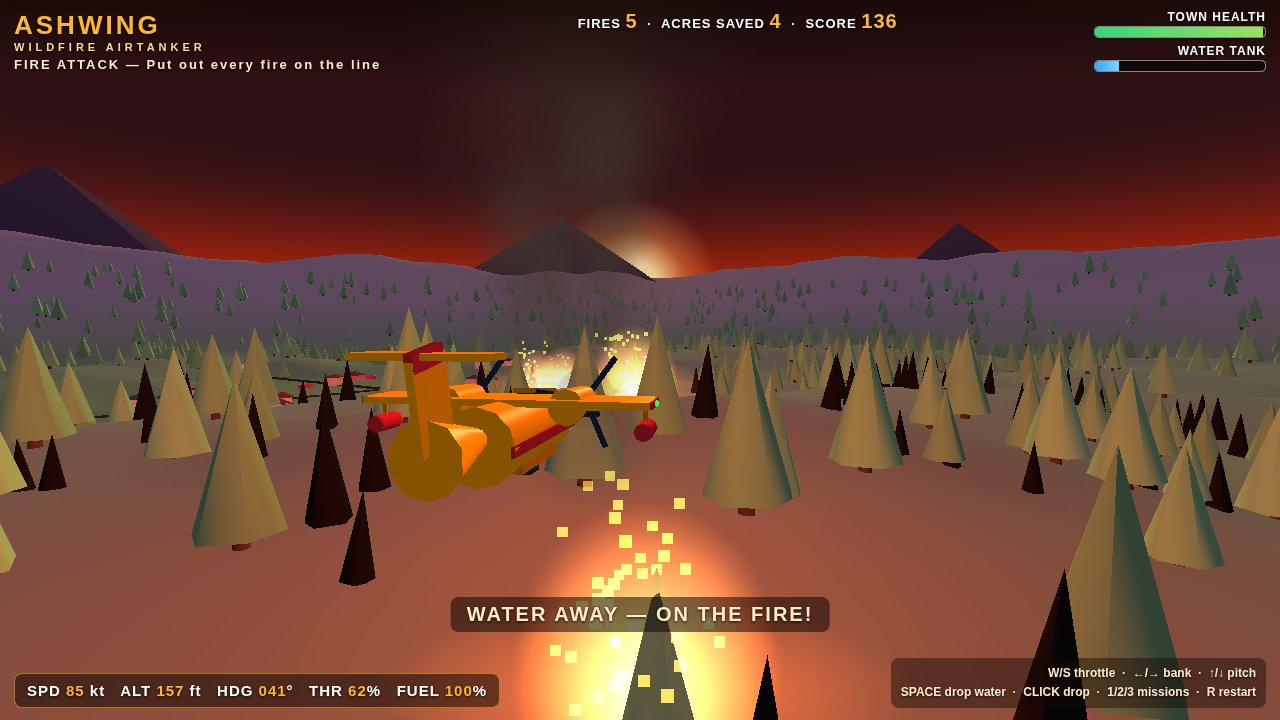
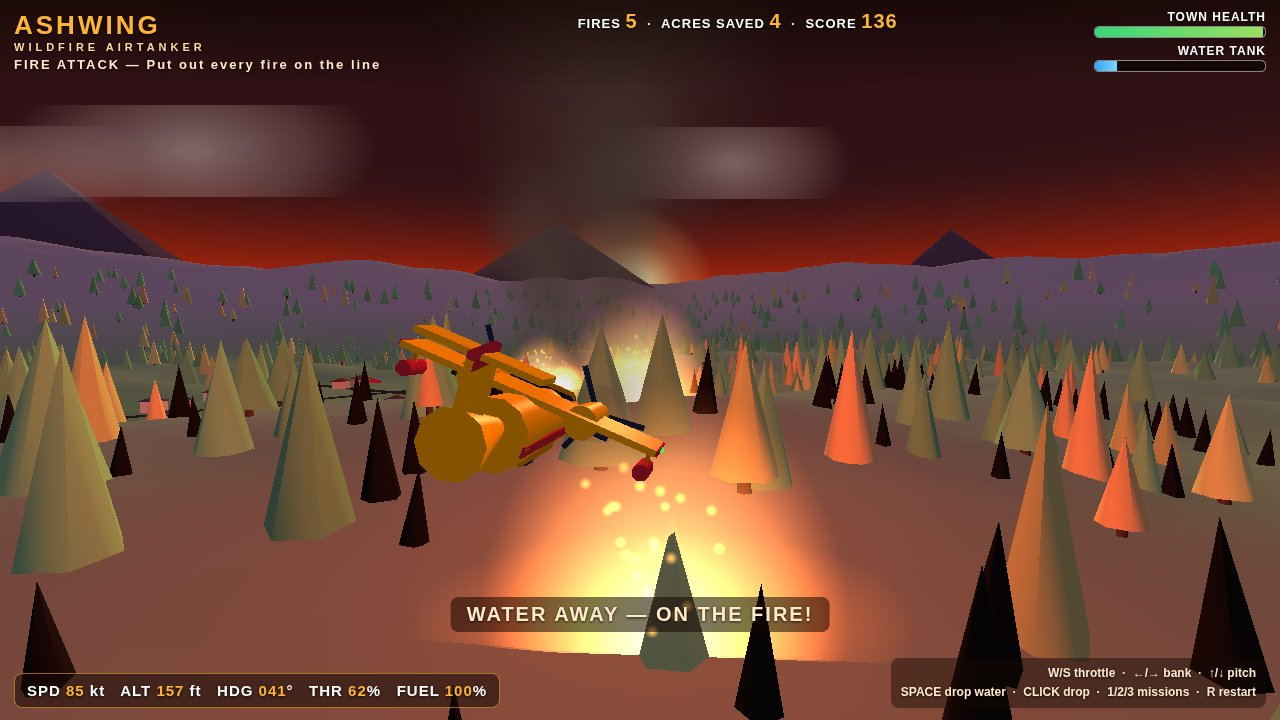
Flight v8 polish: re-stage all 4 shots (front 3/4 cover, shoreline scoop, banking drop, visible end plane); dusk clouds; varied trees; bigger bursts; soft round burst/ember particles

diff --git a/game/src/main.js b/game/src/main.js
@@ -26,9 +26,11 @@
 
   // --- world ---
   scene.add(T.buildSkyDome());
+  scene.add(T.buildClouds());
   scene.add(T.buildSunDisc());
   scene.add(T.buildTerrainMesh());
   scene.add(T.buildLakeMesh());
+  scene.add(T.buildShore());
   scene.add(T.buildGlintMesh());
   scene.add(T.buildRidgeRing(rng));
   var lights = T.buildLights();
@@ -83,16 +85,27 @@
   var autopilot = false;
   var autoPhase = 'scoop';
 
+  // per-shot field of view: the scoop run gets a tighter lens so the
+  // plane and the shoreline read bigger and the lake stays a band.
+  camera.fov = SHOT === 'river' ? 55 : 62;
+  camera.updateProjectionMatrix();
+
   function stageShot() {
     if (SHOT === 'cover') {
+      // Straight southwest run over the fire line toward Cedar Falls —
+      // no autopilot, so the plane holds its line for the title frame.
       missions.setupMission(1);
-      physics.reset(-140, -300, 75, 0.46, 60);
-      physics.auto = { x: 120, z: 220, alt: 80 };
+      physics.reset(430, 330, 75, -2.23, 60);
+      physics.throttle = 0.55;
       shotTarget = 6;
       hud.showTitle(true);
     } else if (SHOT === 'river') {
+      // Scoop run tight against the eastern shore, angled southeast so
+      // the fire line's smoke and Cedar Falls sit in the background.
+      // The plane leaves the lake ~0.7 s before capture; the tank is
+      // still filling, spray is still flying and SCOOPING… still shows.
       missions.setupMission(1);
-      physics.reset(-820, -260, 6, Math.PI * 0.5, 0);
+      physics.reset(-250, -260, 6, Math.PI * 0.5 - 0.5, 0);
       physics.throttle = 0.6;
       shotTarget = 1.0; // settle mid-scoop, spray still flying
       flying = true; hud.showTitle(false);
@@ -106,12 +119,14 @@
     } else if (SHOT === 'landing') {
       // Staged end screen: a short real mission the autopilot genuinely
       // flies and wins — 3 low-intensity fires (they do not spread),
-      // full tank, plane already inbound. Stats on screen are the sim's.
+      // full tank, plane already inbound. The fires sit on the town's
+      // edge so Cedar Falls (houses, water tower, fire trucks) is the
+      // backdrop behind the parked plane. Stats on screen are the sim's.
       missions.setupMission(1);
       fires.clear();
-      fires.addFire(-60, 120, 0.5);
-      fires.addFire(20, 180, 0.5);
-      fires.addFire(90, 140, 0.5);
+      fires.addFire(330, 180, 0.5);
+      fires.addFire(390, 240, 0.5);
+      fires.addFire(310, 290, 0.5);
       physics.reset(-260, -60, 50, 0.86, 100);
       autoPhase = 'attack';
       autopilot = true;
@@ -168,7 +183,9 @@
     plane.position.copy(physics.pos);
     plane.rotation.y = physics.heading + Math.PI;
     plane.rotation.x = -physics.pitch;
-    plane.rotation.z = -physics.roll;
+    // the dusk drop reads flat level — a visual bank makes it dynamic.
+    // Physics is untouched; this is the mesh only, shot-staging only.
+    plane.rotation.z = -physics.roll - (SHOT === 'dusk' ? 0.38 : 0);
     var spin = dt * physics.speed * 0.9;
     plane.userData.props[0].rotation.z += spin;
     plane.userData.props[1].rotation.z += spin;
@@ -187,21 +204,36 @@
     for (var i = 0; i < trucks.length; i++) {
       trucks[i].userData.barMat.color.setHex(Math.floor(t * 2 + i) % 2 === 0 ? 0xff2a1e : 0x2a6bff);
     }
-    // chase camera: pulled back with a side offset so the airtanker reads
-    // as a three-quarter silhouette and the valley ahead dominates
-    var dist = SHOT === 'dusk' ? 15 : (SHOT === 'cover' ? 24 : (SHOT === 'river' ? 19 : 22));
-    var height = SHOT === 'dusk' ? 5 : (SHOT === 'river' ? 4.5 : 6.5);
+    // camera: chase with a side offset so the airtanker reads as a
+    // three-quarter silhouette and the valley ahead dominates — except
+    // the cover, which is a front three-quarter: the camera sits ahead
+    // of the nose looking back, so the cockpit, floats and red
+    // cheatline read, with the fire line and Cedar Falls behind.
     var rx = -Math.cos(physics.heading), rz = Math.sin(physics.heading); // right vector
-    var cx = physics.pos.x - fwd.x * dist + rx * 11;
-    var cz = physics.pos.z - fwd.z * dist + rz * 11;
-    var cy = physics.pos.y + height;
+    var cx, cz, cy, lx, ly, lz;
+    if (SHOT === 'cover') {
+      cx = physics.pos.x + fwd.x * 24 + rx * -10;
+      cz = physics.pos.z + fwd.z * 24 + rz * -10;
+      cy = physics.pos.y + 3.5;
+      lx = physics.pos.x; ly = physics.pos.y + 3; lz = physics.pos.z;
+    } else {
+      var dist = SHOT === 'dusk' ? 15 : (SHOT === 'river' ? 14 : 18);
+      var height = SHOT === 'dusk' ? 4.5 : (SHOT === 'river' ? 3.5 : 5.0);
+      var side = SHOT === 'river' ? 11 : 11;
+      cx = physics.pos.x - fwd.x * dist + rx * side;
+      cz = physics.pos.z - fwd.z * dist + rz * side;
+      cy = physics.pos.y + height;
+      lx = physics.pos.x + fwd.x * 34;
+      ly = physics.pos.y + (SHOT === 'river' ? 6 : (SHOT === 'landing' ? 4 : 1.5));
+      lz = physics.pos.z + fwd.z * 34;
+    }
     var ground = T.heightAt(cx, cz);
     if (cy < ground + 3) cy = ground + 3;
     var k = 1 - Math.exp(-3.2 * Math.max(dt, 0.001));
     camera.position.x += (cx - camera.position.x) * k;
     camera.position.y += (cy - camera.position.y) * k;
     camera.position.z += (cz - camera.position.z) * k;
-    camera.lookAt(physics.pos.x + fwd.x * 34, physics.pos.y + 1.5, physics.pos.z + fwd.z * 34);
+    camera.lookAt(lx, ly, lz);
     hud.update(physics, missions, fires);
     if (missions.done) hud.showEnd(true, missions.won, fires, missions);
   }

diff --git a/game/src/fires.js b/game/src/fires.js
@@ -46,7 +46,7 @@
     var geo = new THREE.BufferGeometry();
     geo.setAttribute('position', new THREE.BufferAttribute(new Float32Array(N * 3), 3));
     var mat = new THREE.PointsMaterial({
-      size: 1.6, color: 0xffa030, transparent: true, opacity: 0.9,
+      size: 2.4, map: this.puffTex, color: 0xffa030, transparent: true, opacity: 0.9,
       blending: THREE.AdditiveBlending, depthWrite: false
     });
     this.embers = new THREE.Points(geo, mat);
@@ -54,12 +54,13 @@
     this.emberParts = [];
     for (var i = 0; i < N; i++) this.emberParts.push({ x: 0, y: -100, z: 0, vy: 0, life: 0, fx: 0, fz: 0 });
     scene.add(this.embers);
-    // water-drop burst particles (reused pool)
+    // burst particles: bigger drops, longer life so the burst is still
+    // at its peak when the dusk shot is taken
     var M = 160;
     var bgeo = new THREE.BufferGeometry();
     bgeo.setAttribute('position', new THREE.BufferAttribute(new Float32Array(M * 3), 3));
     var bmat = new THREE.PointsMaterial({
-      size: 3.4, color: 0xbfe6ff, transparent: true, opacity: 0.95, depthWrite: false
+      size: 5.0, map: this.puffTex, color: 0xbfe6ff, transparent: true, opacity: 0.95, depthWrite: false
     });
     this.burst = new THREE.Points(bgeo, bmat);
     this.burst.frustumCulled = false;
@@ -95,14 +96,14 @@
     glow.scale.set(42, 16, 1);
     glow.position.y = 3;
     g.add(glow);
-    // smoke column: 5 stacked puffs
+    // smoke column: 5 stacked puffs, bigger and thicker
     var smokes = [];
     var smokeMat = new THREE.SpriteMaterial({
       map: this.puffTex, color: 0x453832, transparent: true, opacity: 0.5, depthWrite: false
     });
     for (var s = 0; s < 5; s++) {
       var sm = new THREE.Sprite(smokeMat);
-      sm.scale.set(14 + s * 7, 14 + s * 7, 1);
+      sm.scale.set(16 + s * 8, 16 + s * 8, 1);
       sm.position.set((this.rng() - 0.5) * 4, 16 + s * 13, (this.rng() - 0.5) * 4);
       g.add(sm);
       smokes.push(sm);
@@ -143,17 +144,17 @@
     for (var j = 0; j < this.burstParts.length; j++) {
       var p = this.burstParts[j];
       if (p.life <= 0) {
-        p.x = x + (Math.random() - 0.5) * 30;
+        p.x = x + (Math.random() - 0.5) * 40;
         p.y = T.heightAt(x, z) + 26 + Math.random() * 10;
-        p.z = z + (Math.random() - 0.5) * 30;
+        p.z = z + (Math.random() - 0.5) * 40;
         p.vx = (Math.random() - 0.5) * 14;
-        p.vy = -18 - Math.random() * 14;
+        p.vy = -14 - Math.random() * 16;
         p.vz = (Math.random() - 0.5) * 14;
-        p.life = 0.7 + Math.random() * 0.5;
+        p.life = 1.0 + Math.random() * 0.8;
       }
     }
     // steam
-    for (var s = 0; s < 6; s++) {
+    for (var s = 0; s < 10; s++) {
       var mat = new THREE.SpriteMaterial({
         map: this.puffTex, color: 0xdde8ee, transparent: true, opacity: 0.38, depthWrite: false
       });
@@ -207,16 +208,17 @@
     for (var q = 0; q < this.fires.length; q++) {
       var fire = this.fires[q];
       var fl = 0.75 + 0.25 * Math.sin(t * 7 + fire.seed * 9) * Math.sin(t * 3.1 + fire.seed);
-      var sc = (18 + fire.intensity * 22) * fl;
+      // per-fire size variety (seed is fixed per fire) + a brighter core
+      var sc = (20 + fire.intensity * 26) * fl * (0.85 + (fire.seed % 1) * 0.4);
       fire.flame.scale.set(sc, sc * 1.3, 1);
       fire.flame.material.opacity = 0.25 + fire.intensity * 0.75;
-      fire.glow.material.opacity = 0.12 + fire.intensity * 0.45;
-      fire.glow.scale.set(30 + fire.intensity * 22, 12 + fire.intensity * 8, 1);
+      fire.glow.material.opacity = 0.18 + fire.intensity * 0.55;
+      fire.glow.scale.set(34 + fire.intensity * 26, 14 + fire.intensity * 10, 1);
       for (var s2 = 0; s2 < fire.smokes.length; s2++) {
         var sm2 = fire.smokes[s2];
         sm2.position.y += dt * 2.2;
         sm2.position.x += dt * 3.5; // wind drift
-        sm2.material.opacity = 0.16 + fire.intensity * 0.3;
+        sm2.material.opacity = 0.22 + fire.intensity * 0.35;
         if (sm2.position.y > 16 + s2 * 13 + 26) sm2.position.y = 16 + s2 * 13;
       }
       fire.group.visible = fire.intensity > 0.02;
@@ -227,7 +229,7 @@
       var ep = this.emberParts[e];
       if (ep.life <= 0) {
         var bf = this.fires[Math.floor(Math.random() * this.fires.length)];
-        if (bf && bf.intensity > 0.3 && Math.random() < 0.5) {
+        if (bf && bf.intensity > 0.3 && Math.random() < 0.7) {
           ep.x = bf.x + (Math.random() - 0.5) * 12;
           ep.y = T.heightAt(bf.x, bf.z) + 4;
           ep.z = bf.z + (Math.random() - 0.5) * 12;

diff --git a/game/src/terrain.js b/game/src/terrain.js
@@ -106,6 +106,81 @@
     return m;
   }
 
+  // Shoreline dressing: reeds and boulders ringing the lake's edge so
+  // the waterline reads as a place, not a flat disc. Uses its own
+  // local rng stream — the shared rng (forest / town / fires) is
+  // untouched, so no other staging moves.
+  function buildShore() {
+    var group = new THREE.Group();
+    var srng = R.makeRng(4242);
+    var dummy = new THREE.Object3D();
+    var reedGeo = new THREE.CylinderGeometry(0.06, 0.16, 4.2, 4);
+    var reedMat = new THREE.MeshLambertMaterial({ color: 0x8a7a3a });
+    var reeds = new THREE.InstancedMesh(reedGeo, reedMat, 150);
+    for (var i = 0; i < 150; i++) {
+      var a = srng() * Math.PI * 2;
+      var rr = 0.97 + srng() * 0.08;
+      var x = LAKE.x + Math.cos(a) * LAKE.rx * rr;
+      var z = LAKE.z + Math.sin(a) * LAKE.rz * rr;
+      var h = heightAt(x, z);
+      var s = 0.7 + srng() * 0.9;
+      dummy.position.set(x, Math.max(0.5, h) + 1.6 * s, z);
+      dummy.scale.set(1, s, 1);
+      dummy.rotation.set((srng() - 0.5) * 0.25, 0, (srng() - 0.5) * 0.25);
+      dummy.updateMatrix();
+      reeds.setMatrixAt(i, dummy.matrix);
+    }
+    reeds.instanceMatrix.needsUpdate = true;
+    group.add(reeds);
+    var rockGeo = new THREE.DodecahedronGeometry(1.6, 0);
+    var rockMat = new THREE.MeshLambertMaterial({ color: 0x6a655e, flatShading: true });
+    var rocks = new THREE.InstancedMesh(rockGeo, rockMat, 46);
+    for (var j = 0; j < 46; j++) {
+      var b = srng() * Math.PI * 2;
+      var r2 = 0.99 + srng() * 0.07;
+      var rx2 = LAKE.x + Math.cos(b) * LAKE.rx * r2;
+      var rz2 = LAKE.z + Math.sin(b) * LAKE.rz * r2;
+      var h2 = heightAt(rx2, rz2);
+      var s2 = 0.6 + srng() * 1.6;
+      dummy.position.set(rx2, Math.max(0.4, h2) + 0.4 * s2, rz2);
+      dummy.scale.setScalar(s2);
+      dummy.rotation.set(0, srng() * Math.PI, 0);
+      dummy.updateMatrix();
+      rocks.setMatrixAt(j, dummy.matrix);
+    }
+    rocks.instanceMatrix.needsUpdate = true;
+    group.add(rocks);
+    return group;
+  }
+
+  // Dusk clouds: big soft sprites high over the valley so the upper
+  // frame is never flat empty sky. Own rng stream; nothing else moves.
+  function buildClouds() {
+    var cv = document.createElement('canvas'); cv.width = 128; cv.height = 64;
+    var g = cv.getContext('2d');
+    var grad = g.createRadialGradient(64, 32, 4, 64, 32, 62);
+    grad.addColorStop(0, 'rgba(255,220,200,0.55)');
+    grad.addColorStop(0.6, 'rgba(220,170,160,0.28)');
+    grad.addColorStop(1, 'rgba(220,170,160,0)');
+    g.fillStyle = grad; g.fillRect(0, 0, 128, 64);
+    var tex = new THREE.CanvasTexture(cv);
+    var crng = R.makeRng(777);
+    var group = new THREE.Group();
+    for (var i = 0; i < 14; i++) {
+      var mat = new THREE.SpriteMaterial({
+        map: tex, transparent: true, opacity: 0.5 + crng() * 0.25,
+        depthWrite: false, fog: false
+      });
+      var s = new THREE.Sprite(mat);
+      var a = crng() * Math.PI * 2;
+      var r = 900 + crng() * 800;
+      s.position.set(Math.cos(a) * r, 260 + crng() * 160, Math.sin(a) * r);
+      s.scale.set(320 + crng() * 260, 90 + crng() * 70, 1);
+      group.add(s);
+    }
+    return group;
+  }
+
   function buildSkyDome() {
     var geo = new THREE.SphereGeometry(3200, 24, 14);
     var mat = new THREE.ShaderMaterial({
@@ -174,8 +249,8 @@
   global.AshTerrain = {
     WORLD: WORLD, LAKE: LAKE, TOWN: TOWN, WATER_Y: WATER_Y,
     heightAt: heightAt, isOverLake: isOverLake,
-    buildTerrainMesh: buildTerrainMesh, buildLakeMesh: buildLakeMesh,
-    buildGlintMesh: buildGlintMesh, buildSkyDome: buildSkyDome,
+    buildTerrainMesh: buildTerrainMesh, buildLakeMesh: buildLakeMesh, buildShore: buildShore,
+    buildGlintMesh: buildGlintMesh, buildClouds: buildClouds, buildSkyDome: buildSkyDome,
     buildSunDisc: buildSunDisc, buildRidgeRing: buildRidgeRing,
     buildLights: buildLights
   };

diff --git a/game/index.html b/game/index.html
@@ -26,17 +26,17 @@
   #msg { left: 50%; bottom: 88px; transform: translateX(-50%); font-size: 20px; font-weight: 900; letter-spacing: 2px; color: #ffe9c9; background: rgba(20,8,4,.55); padding: 6px 16px; border-radius: 8px; }
   #hint { right: 14px; bottom: 12px; text-align: right; font-size: 12px; font-weight: 600; line-height: 1.6; color: #ffe9c9; background: rgba(20,8,4,.45); padding: 6px 10px; border-radius: 8px; }
   #title, #end { inset: 0; display: flex; flex-direction: column; align-items: center; justify-content: flex-start; padding-top: 8vh; text-align: center; background: radial-gradient(ellipse at 50% 30%, rgba(20,6,2,.10), rgba(20,6,2,.55)); }
-  #end { justify-content: center; padding-top: 0; }
+  #end { justify-content: flex-start; padding-top: 9vh; }
   #title h1 { margin: 0; font-size: 84px; font-weight: 900; letter-spacing: 10px; color: #ffb62e; text-shadow: 0 0 26px rgba(255,110,20,.75), 0 3px 0 #7a2c00, 0 6px 18px rgba(0,0,0,.9); }
   #title h2 { margin: 6px 0 0; font-size: 24px; font-weight: 800; letter-spacing: 8px; color: #fff; }
   #title p { margin: 18px 0 0; font-size: 17px; font-weight: 600; color: #ffe9c9; max-width: 640px; line-height: 1.55; }
   #title .go { margin-top: 26px; font-size: 20px; font-weight: 900; letter-spacing: 3px; color: #1a1210; background: #ffb62e; padding: 12px 28px; border-radius: 10px; box-shadow: 0 0 24px rgba(255,150,30,.8); animation: pulse 1.4s infinite; }
   @keyframes pulse { 0%,100% { transform: scale(1); } 50% { transform: scale(1.06); } }
-  #end h1 { margin: 0; font-size: 64px; font-weight: 900; letter-spacing: 6px; color: #7dff9b; text-shadow: 0 0 24px rgba(60,255,120,.6), 0 3px 0 #064d1e, 0 6px 18px rgba(0,0,0,.9); }
+  #end h1 { margin: 0; font-size: 46px; font-weight: 900; letter-spacing: 6px; color: #7dff9b; text-shadow: 0 0 24px rgba(60,255,120,.6), 0 3px 0 #064d1e, 0 6px 18px rgba(0,0,0,.9); }
   #end h1.lost { color: #ff5a3c; text-shadow: 0 0 24px rgba(255,60,20,.7), 0 3px 0 #5d0d00, 0 6px 18px rgba(0,0,0,.9); }
-  #end .nums { margin-top: 14px; font-size: 20px; font-weight: 800; line-height: 1.9; color: #fff; background: rgba(20,8,4,.6); padding: 12px 26px; border-radius: 10px; }
+  #end .nums { margin-top: 10px; font-size: 17px; font-weight: 800; line-height: 1.7; color: #fff; background: rgba(20,8,4,.6); padding: 10px 22px; border-radius: 10px; }
   #end .nums b { color: #ffb62e; }
-  #end .go { margin-top: 22px; font-size: 18px; font-weight: 900; letter-spacing: 2px; color: #1a1210; background: #ffb62e; padding: 10px 24px; border-radius: 10px; }
+  #end .go { margin-top: 14px; font-size: 16px; font-weight: 900; letter-spacing: 2px; color: #1a1210; background: #ffb62e; padding: 9px 22px; border-radius: 10px; }
   .hidden { display: none !important; }
 </style>
 </head>

diff --git a/game/src/forest.js b/game/src/forest.js
@@ -7,6 +7,13 @@
   var R = global.AshRng;
   var T = global.AshTerrain;
 
+  // Deterministic 0..1 hash of a ground position — variety without
+  // consuming the shared rng, so town / fire placement never moves.
+  function hash01(x, z) {
+    var s = Math.sin(x * 12.9898 + z * 78.233) * 43758.5453;
+    return s - Math.floor(s);
+  }
+
   function scatterPositions(rng, count, accept) {
     var out = [];
     var guard = 0;
@@ -45,10 +52,16 @@
       dummy.scale.setScalar(s); dummy.rotation.set(0, 0, 0); dummy.updateMatrix();
       trunks.setMatrixAt(i, dummy.matrix);
       dummy.position.set(x, h + (5 + 6.5) * s * 0.5 + 2.5 * s, z);
-      dummy.scale.setScalar(s); dummy.rotation.set(0, R.range(rng, 0, 6.28), 0); dummy.updateMatrix();
+      // varied silhouettes: some tall and thin, some short and wide —
+      // no more rows of identical cones.
+      var hh = hash01(x, z), hh2 = hash01(z, x);
+      dummy.scale.set(s * (0.75 + 0.5 * hh), s * (0.85 + 0.6 * hh2), s * (0.75 + 0.5 * hh));
+      dummy.rotation.set(0, R.range(rng, 0, 6.28), 0); dummy.updateMatrix();
       fols.setMatrixAt(i, dummy.matrix);
       var g = R.range(rng, 0.9, 1.35);
-      col.setRGB(0.13 * g, 0.32 * g, 0.11 * g);
+      if (hh < 0.16) col.setRGB(0.48 * g, 0.30 * g, 0.09 * g);       // autumn orange
+      else if (hh < 0.30) col.setRGB(0.38 * g, 0.40 * g, 0.10 * g);  // yellow-green
+      else col.setRGB(0.13 * g, 0.32 * g, 0.11 * g);
       fols.setColorAt(i, col);
     }
     trunks.instanceMatrix.needsUpdate = true;
